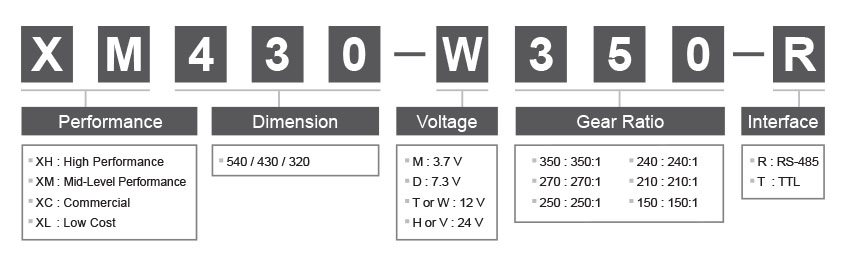
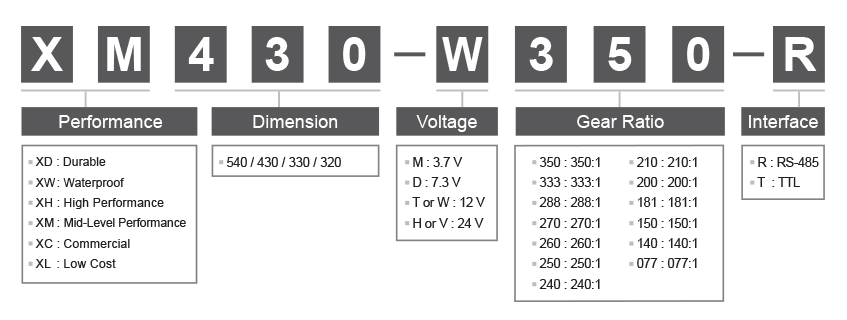
Maintanance: Product Lineup Img Change

diff --git a/docs/kr/dxl/x/x.md b/docs/kr/dxl/x/x.md
@@ -10,7 +10,7 @@ sidebar:
 
 ![](/assets/images/dxl/x/x_series_product.png)
 
-XD430-T350-R# [특징](#특징)
+# [특징](#특징)
 
 ![](/assets/images/dxl/x/dxl_x_productline_kr.png)
 
@@ -23,8 +23,8 @@ XD430-T350-R# [특징](#특징)
 - 중공형 설계로 배선 꼬임 및 피로하중 최소화.
 - 케이블 커버를 채택하여 케이블 이탈 방지.
 - 6가지 제어 모드 지원
-  - 토크제어 (XW/XH/XM/XL330 시리즈만 지원)
-  - 전류기반 위치제어 (XW/XH/XM/XL330 시리즈만 지원)
+  - 전류제어 (XW/XD/XH/XM/XC330/XL330 시리즈만 지원)
+  - 전류기반 위치제어 (XW/XD/XH/XM/XC330/XL330 시리즈만 지원)
   - 속도제어
   - 위치제어
   - 확장 위치제어
@@ -36,6 +36,7 @@ XD430-T350-R# [특징](#특징)
 - MCU : ARM CORTEX-M3 (72 \[MHz], 32Bit)
 - 해상도 : 4096 \[pulse/rev]
 - 사용모터 :
+  - XD 시리즈 : Coreless(Maxon)
   - XW 시리즈 : Coreless(Maxon)
   - XH 시리즈 : Coreless(Maxon)
   - XM 시리즈 : Coreless
@@ -56,8 +57,8 @@ XL-320의 사양은 다른 XL 모델들과 차이가 있습니다. 자세한 내
 
 ## [XD 시리즈](#xd-시리즈)
 
-| 모델             | Stall Torque                                                                                              | 무부하 속도                                                                            |
-|:-----------------|:----------------------------------------------------------------------------------------------------------|:---------------------------------------------------------------------------------------|
+| 모델           | Stall Torque                                                                                              | 무부하 속도                                                                            |
+|:---------------|:----------------------------------------------------------------------------------------------------------|:---------------------------------------------------------------------------------------|
 | [XD540-T270-R] | 9.2 [N.m] (at 11.1 [V], 4.5 [A])<br>9.9 [N.m] (at 12.0 [V], 4.9 [A])<br>11.7 [N.m] (at 14.8 [V], 5.9 [A]) | 36 [rev/min] (at 11.1 [V])<br>39 [rev/min] (at 12.0 [V])<br>46 [rev/min] (at 14.8 [V]) |
 | [XD540-T150-R] | 6.6 [N.m] (at 11.1 [V], 4.5 [A])<br>7.1 [N.m] (at 12.0 [V], 4.9 [A])<br>8.5 [N.m] (at 14.8 [V], 5.9 [A])  | 66 [rev/min] (at 11.1 [V])<br>70 [rev/min] (at 12.0 [V])<br>86 [rev/min] (at 14.8 [V]) |
 | [XD430-T350-R] | 3.1 [N.m] (at 11.1 [V], 1.2 [A])<br>3.4 [N.m] (at 12.0 [V], 1.3 [A])<br>4.2 [N.m] (at 14.8 [V], 1.5 [A])  | 27 [rev/min] (at 11.1 [V])<br>30 [rev/min] (at 12.0 [V])<br>37 [rev/min] (at 14.8 [V]) |

diff --git a/docs/en/dxl/x/x.md b/docs/en/dxl/x/x.md
@@ -29,8 +29,8 @@ sidebar:
 - Trajectory Data and Moving Status (In-Position, Following Error, etc).
 - Energy Saving (Reduced Current from 100mA to 40mA).
 - Various Operating Modes
-  - Current based Position Control (XW/XH/XM/XL330 only).
-  - Torque Control (XW/XH/XM/XL330 only only).
+  - Current based Position Control (XW/XH/XM/XC330/XL330 only).
+  - Current Control (XW/XH/XM/XC330/XL330 only only).
   - Velocity Control.
   - Position Control.
   - Extended Position Control.
@@ -41,6 +41,7 @@ sidebar:
 - MCU : ARM CORTEX-M3 (72 \[MHz], 32Bit)
 - Resolution : 4096 \[pulse/rev]
 - Motor :
+  - XD Series : Coreless (Maxon)
   - XW Series : Coreless (Maxon)
   - XH Series : Coreless (Maxon)
   - XM Series : Coreless
